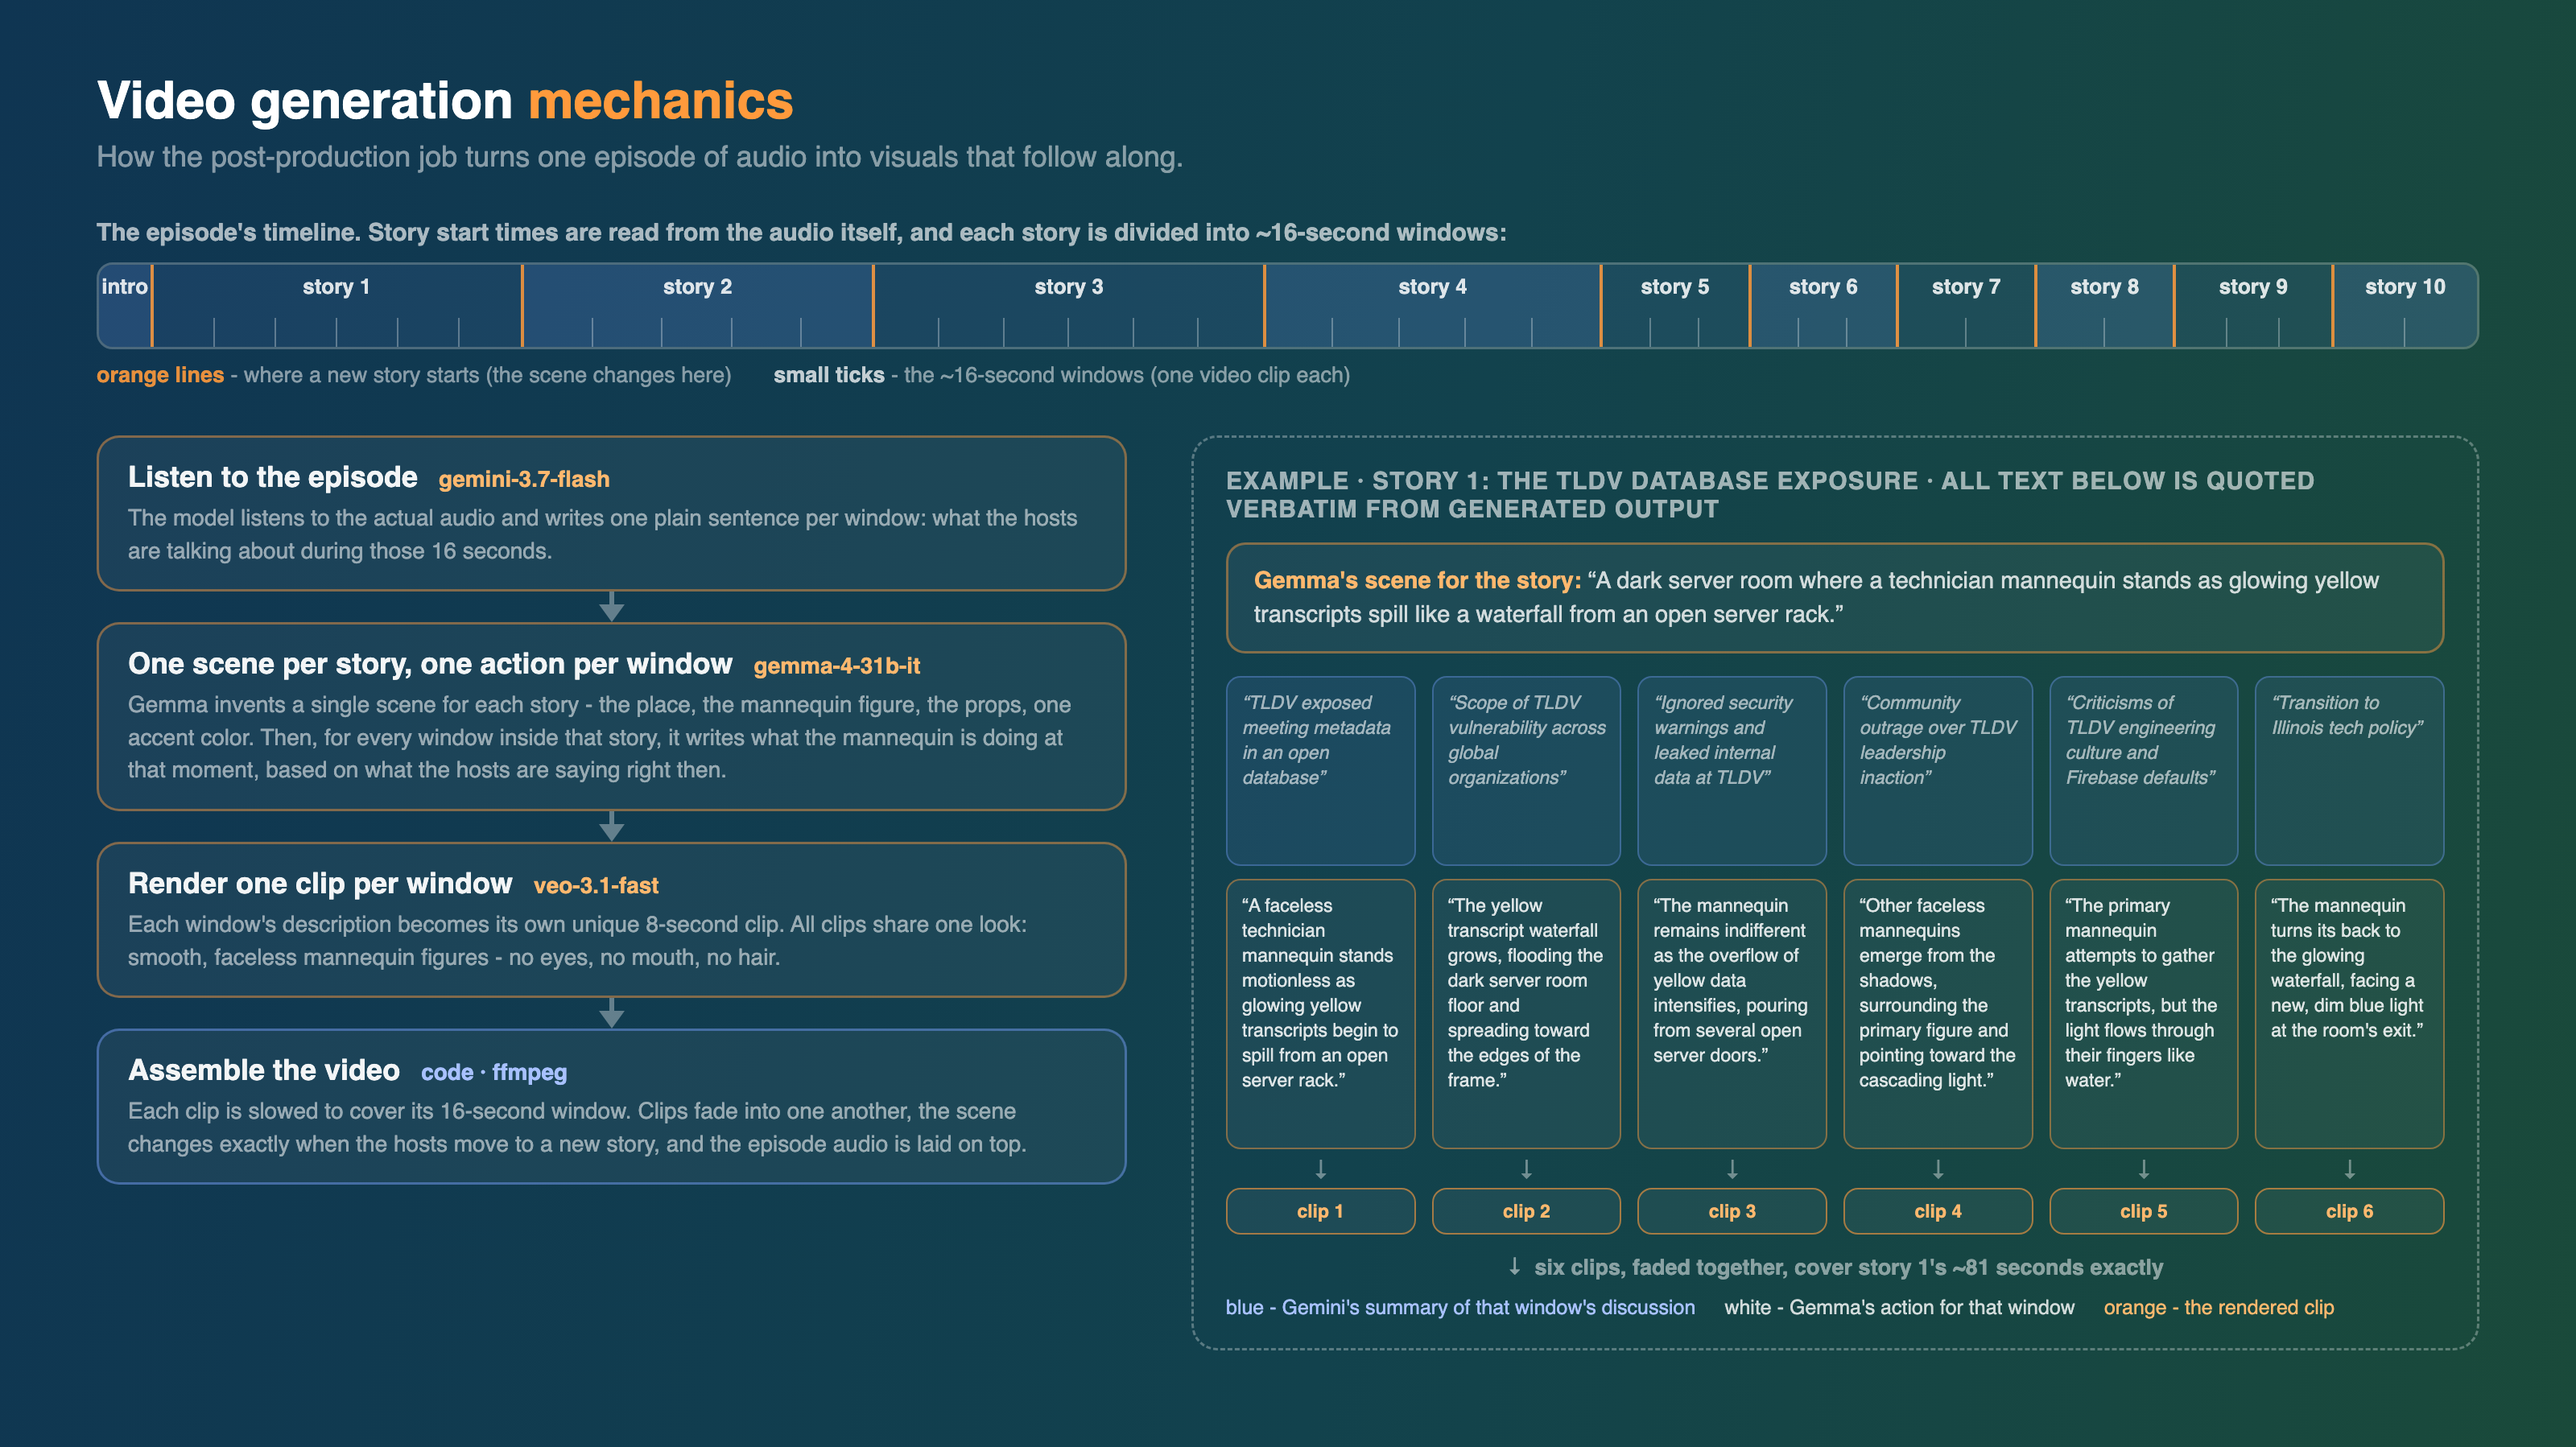
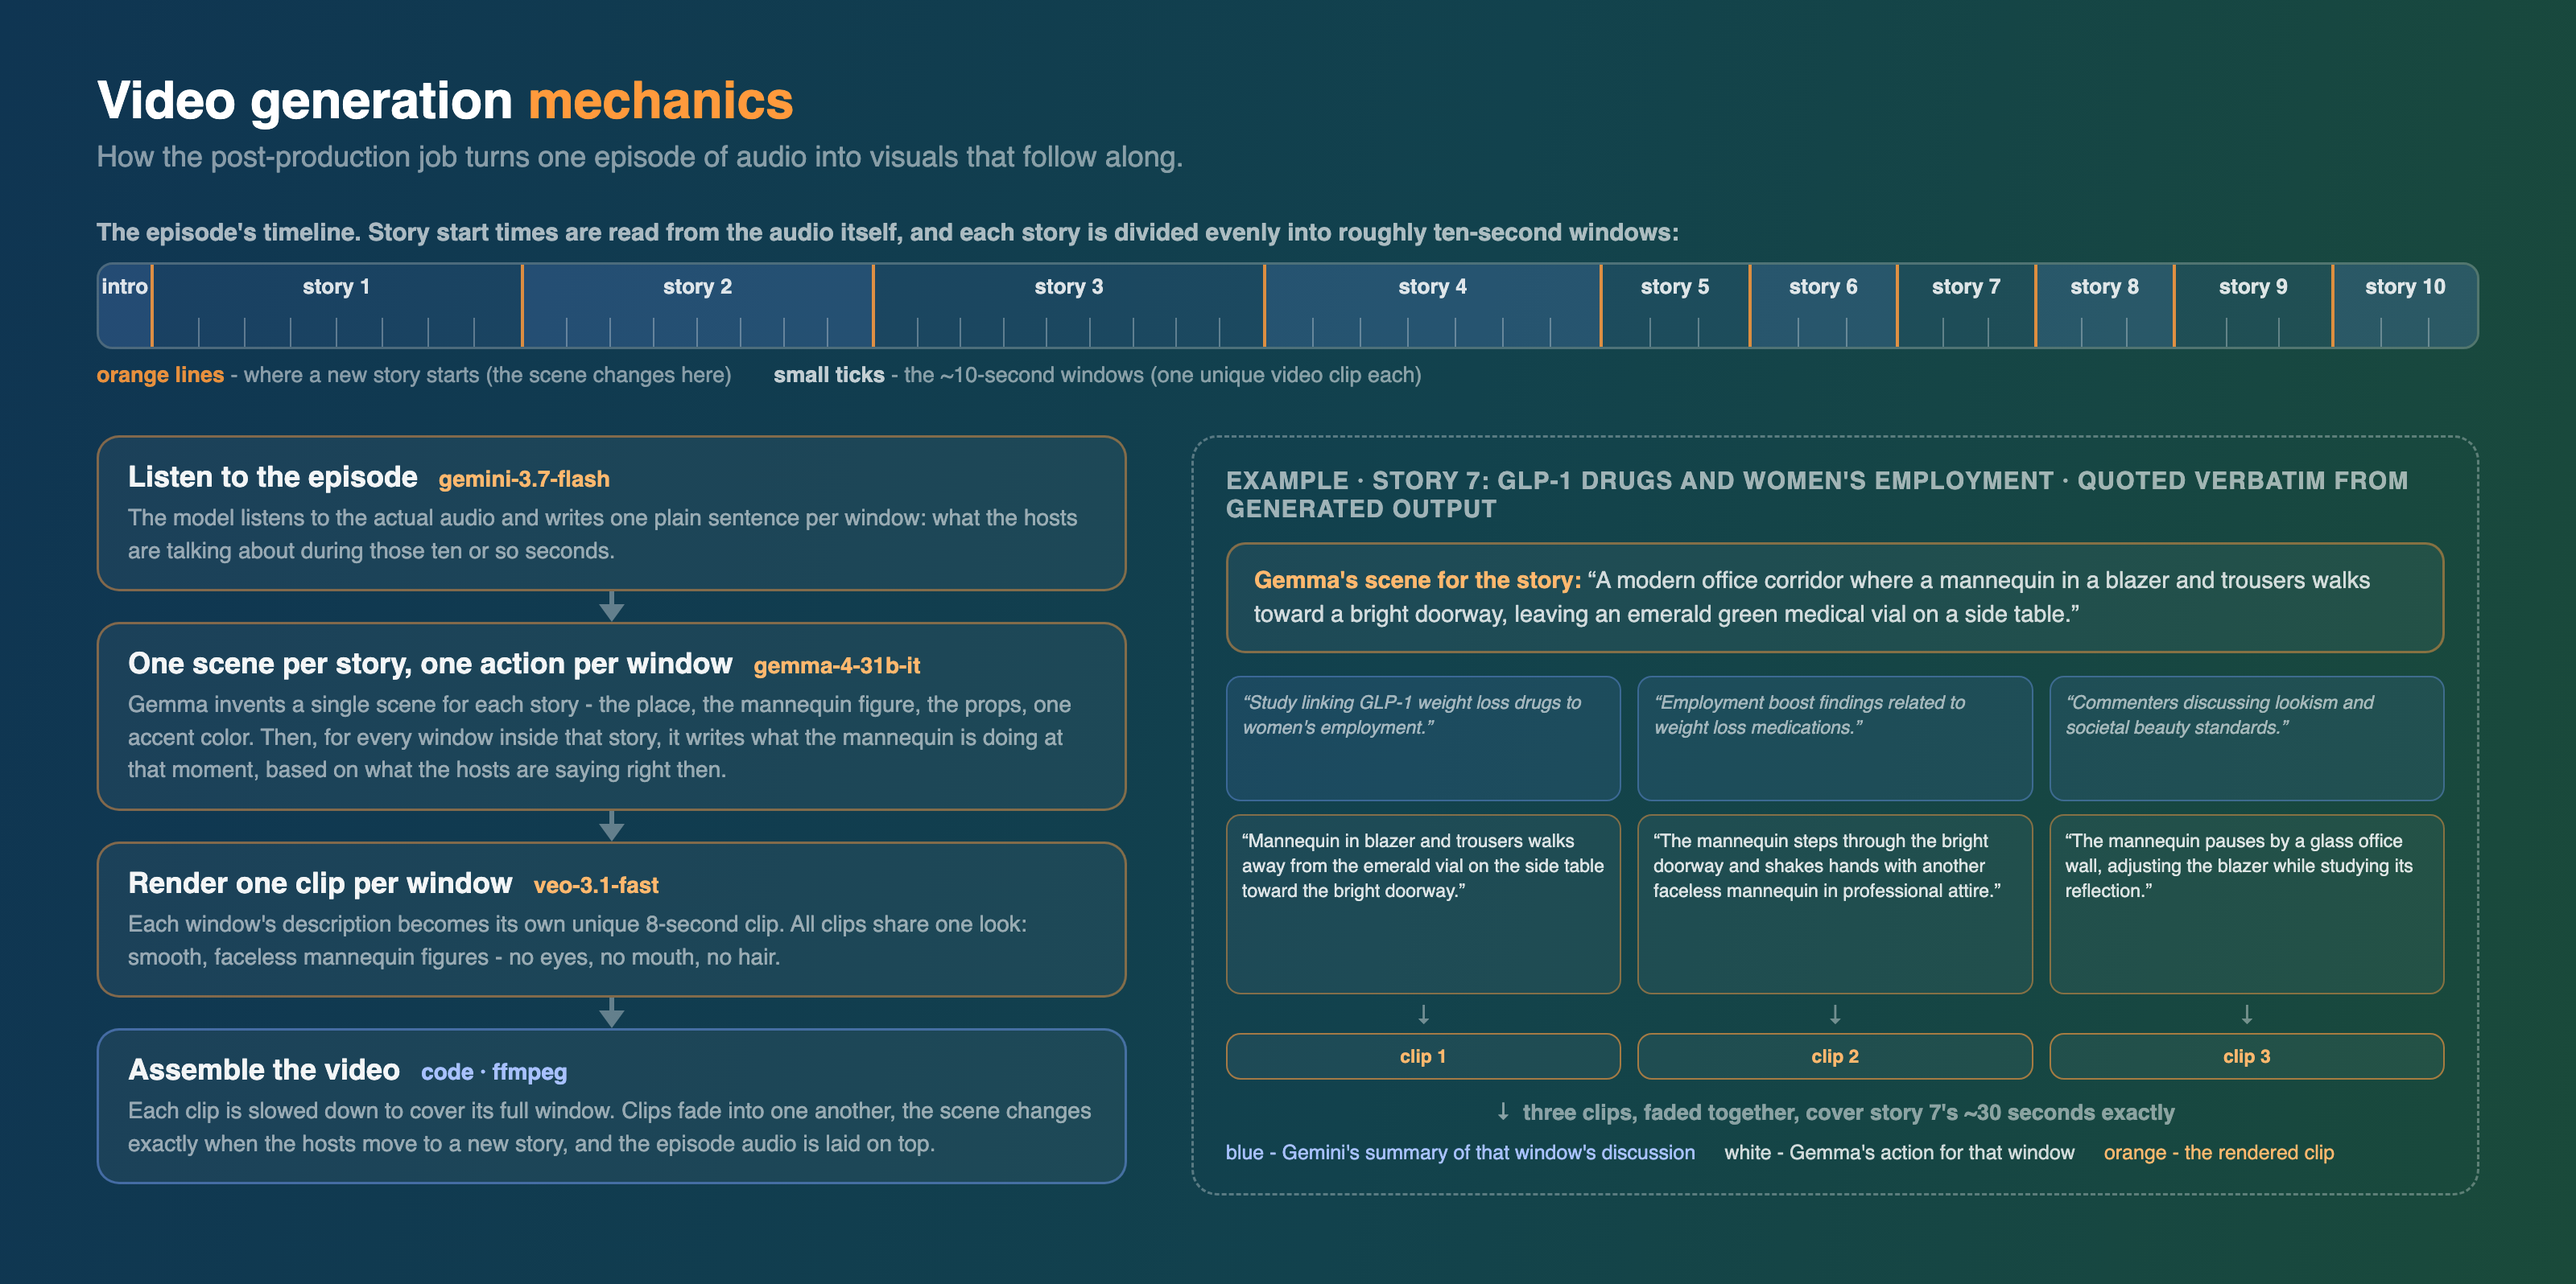
Strip: ten-second windows, story-7 verbatim example

Changed region(s): [[0.0312, 0.0614, 0.9688, 0.9211], [0.4688, 0.5833, 0.9375, 0.9211]]

diff --git a/assets/architecture-video-strip.html b/assets/architecture-video-strip.html
@@ -7,7 +7,7 @@
 <style>
   * { margin: 0; padding: 0; box-sizing: border-box; }
   html, body { font-family: 'Inter', -apple-system, sans-serif; }
-  .cover { position: relative; overflow: hidden; width: 1600px; height: 899px;
+  .cover { position: relative; overflow: hidden; width: 1600px; height: 798px;
     background: linear-gradient(100deg, #0f3552 0%, #12424d 55%, #1a4a3a 100%); padding: 44px 60px; }
   .head h1 { font-size: 32px; font-weight: 700; color: #fff; }
   .head h1 .hl { color: #ff9a3c; }
@@ -42,9 +42,9 @@
   .lanes { display: flex; gap: 10px; margin-top: 14px; }
   .lane { flex: 1; display: flex; flex-direction: column; }
   .said { background: rgba(120,160,255,0.10); border: 1px solid rgba(120,160,255,0.35); border-radius: 9px; padding: 8px 9px;
-    font-size: 11.5px; color: rgba(255,255,255,0.6); font-style: italic; line-height: 1.35; min-height: 118px; }
+    font-size: 11.5px; color: rgba(255,255,255,0.6); font-style: italic; line-height: 1.35; min-height: 78px; }
   .act { margin-top: 8px; background: rgba(255,255,255,0.05); border: 1px solid rgba(255,154,60,0.45); border-radius: 9px; padding: 8px 9px;
-    font-size: 11.5px; color: rgba(255,255,255,0.85); line-height: 1.35; min-height: 168px; }
+    font-size: 11.5px; color: rgba(255,255,255,0.85); line-height: 1.35; min-height: 112px; }
   .dn { text-align: center; color: rgba(255,255,255,0.4); font-size: 15px; margin: 3px 0; }
   .clip { background: rgba(255,255,255,0.05); border: 1px solid rgba(255,154,60,0.6); border-radius: 9px; padding: 7px 6px;
     font-size: 11.5px; font-weight: 700; color: #ffb86e; text-align: center; }
@@ -60,14 +60,14 @@
     <p>How the post-production job turns one episode of audio into visuals that follow along.</p>
   </div>
   <div class="tl">
-    <div class="cap">The episode's timeline. Story start times are read from the audio itself, and each story is divided into ~16-second windows:</div>
-    <div class="bar"><div class="seg" style="width:2.312%"><span>intro</span><div class="ticks"><i style="width:100.000%"></i></div></div><div class="seg" style="width:15.546%"><span>story 1</span><div class="ticks"><i style="width:16.667%"></i><i style="width:16.667%"></i><i style="width:16.667%"></i><i style="width:16.667%"></i><i style="width:16.667%"></i><i style="width:16.667%"></i></div></div><div class="seg" style="width:14.775%"><span>story 2</span><div class="ticks"><i style="width:20.000%"></i><i style="width:20.000%"></i><i style="width:20.000%"></i><i style="width:20.000%"></i><i style="width:20.000%"></i></div></div><div class="seg" style="width:16.470%"><span>story 3</span><div class="ticks"><i style="width:16.667%"></i><i style="width:16.667%"></i><i style="width:16.667%"></i><i style="width:16.667%"></i><i style="width:16.667%"></i><i style="width:16.667%"></i></div></div><div class="seg" style="width:14.120%"><span>story 4</span><div class="ticks"><i style="width:20.000%"></i><i style="width:20.000%"></i><i style="width:20.000%"></i><i style="width:20.000%"></i><i style="width:20.000%"></i></div></div><div class="seg" style="width:6.261%"><span>story 5</span><div class="ticks"><i style="width:33.333%"></i><i style="width:33.333%"></i><i style="width:33.333%"></i></div></div><div class="seg" style="width:6.222%"><span>story 6</span><div class="ticks"><i style="width:33.333%"></i><i style="width:33.333%"></i><i style="width:33.333%"></i></div></div><div class="seg" style="width:5.798%"><span>story 7</span><div class="ticks"><i style="width:50.000%"></i><i style="width:50.000%"></i></div></div><div class="seg" style="width:5.837%"><span>story 8</span><div class="ticks"><i style="width:50.000%"></i><i style="width:50.000%"></i></div></div><div class="seg" style="width:6.665%"><span>story 9</span><div class="ticks"><i style="width:33.333%"></i><i style="width:33.333%"></i><i style="width:33.333%"></i></div></div><div class="seg" style="width:5.995%"><span>story 10</span><div class="ticks"><i style="width:50.000%"></i><i style="width:50.000%"></i></div></div></div>
-    <div class="legend"><span><b>orange lines</b> - where a new story starts (the scene changes here)</span><span><u>small ticks</u> - the ~16-second windows (one video clip each)</span></div>
+    <div class="cap">The episode's timeline. Story start times are read from the audio itself, and each story is divided evenly into roughly ten-second windows:</div>
+    <div class="bar"><div class="seg" style="width:2.312%"><span>intro</span><div class="ticks"><i style="width:100.000%"></i></div></div><div class="seg" style="width:15.546%"><span>story 1</span><div class="ticks"><i style="width:12.500%"></i><i style="width:12.500%"></i><i style="width:12.500%"></i><i style="width:12.500%"></i><i style="width:12.500%"></i><i style="width:12.500%"></i><i style="width:12.500%"></i><i style="width:12.500%"></i></div></div><div class="seg" style="width:14.775%"><span>story 2</span><div class="ticks"><i style="width:12.500%"></i><i style="width:12.500%"></i><i style="width:12.500%"></i><i style="width:12.500%"></i><i style="width:12.500%"></i><i style="width:12.500%"></i><i style="width:12.500%"></i><i style="width:12.500%"></i></div></div><div class="seg" style="width:16.470%"><span>story 3</span><div class="ticks"><i style="width:11.111%"></i><i style="width:11.111%"></i><i style="width:11.111%"></i><i style="width:11.111%"></i><i style="width:11.111%"></i><i style="width:11.111%"></i><i style="width:11.111%"></i><i style="width:11.111%"></i><i style="width:11.111%"></i></div></div><div class="seg" style="width:14.120%"><span>story 4</span><div class="ticks"><i style="width:14.286%"></i><i style="width:14.286%"></i><i style="width:14.286%"></i><i style="width:14.286%"></i><i style="width:14.286%"></i><i style="width:14.286%"></i><i style="width:14.286%"></i></div></div><div class="seg" style="width:6.261%"><span>story 5</span><div class="ticks"><i style="width:33.333%"></i><i style="width:33.333%"></i><i style="width:33.333%"></i></div></div><div class="seg" style="width:6.222%"><span>story 6</span><div class="ticks"><i style="width:33.333%"></i><i style="width:33.333%"></i><i style="width:33.333%"></i></div></div><div class="seg" style="width:5.798%"><span>story 7</span><div class="ticks"><i style="width:33.333%"></i><i style="width:33.333%"></i><i style="width:33.333%"></i></div></div><div class="seg" style="width:5.837%"><span>story 8</span><div class="ticks"><i style="width:33.333%"></i><i style="width:33.333%"></i><i style="width:33.333%"></i></div></div><div class="seg" style="width:6.665%"><span>story 9</span><div class="ticks"><i style="width:33.333%"></i><i style="width:33.333%"></i><i style="width:33.333%"></i></div></div><div class="seg" style="width:5.995%"><span>story 10</span><div class="ticks"><i style="width:33.333%"></i><i style="width:33.333%"></i><i style="width:33.333%"></i></div></div></div>
+    <div class="legend"><span><b>orange lines</b> - where a new story starts (the scene changes here)</span><span><u>small ticks</u> - the ~10-second windows (one unique video clip each)</span></div>
   </div>
   <div class="cols">
     <div class="flow">
       <div class="node"><div class="t">Listen to the episode <em>gemini-3.7-flash</em></div>
-        <div class="s">The model listens to the actual audio and writes one plain sentence per window: what the hosts are talking about during those 16 seconds.</div></div>
+        <div class="s">The model listens to the actual audio and writes one plain sentence per window: what the hosts are talking about during those ten or so seconds.</div></div>
       <div class="stem"></div><div class="arrow"></div>
       <div class="node"><div class="t">One scene per story, one action per window <em>gemma-4-31b-it</em></div>
         <div class="s">Gemma invents a single scene for each story - the place, the mannequin figure, the props, one accent color. Then, for every window inside that story, it writes what the mannequin is doing at that moment, based on what the hosts are saying right then.</div></div>
@@ -76,13 +76,13 @@
         <div class="s">Each window's description becomes its own unique 8-second clip. All clips share one look: smooth, faceless mannequin figures - no eyes, no mouth, no hair.</div></div>
       <div class="stem"></div><div class="arrow"></div>
       <div class="node code"><div class="t">Assemble the video <em>code &middot; ffmpeg</em></div>
-        <div class="s">Each clip is slowed to cover its 16-second window. Clips fade into one another, the scene changes exactly when the hosts move to a new story, and the episode audio is laid on top.</div></div>
+        <div class="s">Each clip is slowed down to cover its full window. Clips fade into one another, the scene changes exactly when the hosts move to a new story, and the episode audio is laid on top.</div></div>
     </div>
     <div class="ex">
-      <div class="xt">Example &middot; story 1: the TLDV database exposure &middot; all text below is quoted verbatim from generated output</div>
-      <div class="scene"><b>Gemma's scene for the story:</b> &ldquo;A dark server room where a technician mannequin stands as glowing yellow transcripts spill like a waterfall from an open server rack.&rdquo;</div>
-      <div class="lanes"><div class="lane"><div class="said">&ldquo;TLDV exposed meeting metadata in an open database&rdquo;</div><div class="act">&ldquo;A faceless technician mannequin stands motionless as glowing yellow transcripts begin to spill from an open server rack.&rdquo;</div><div class="dn">&#8595;</div><div class="clip">clip 1</div></div><div class="lane"><div class="said">&ldquo;Scope of TLDV vulnerability across global organizations&rdquo;</div><div class="act">&ldquo;The yellow transcript waterfall grows, flooding the dark server room floor and spreading toward the edges of the frame.&rdquo;</div><div class="dn">&#8595;</div><div class="clip">clip 2</div></div><div class="lane"><div class="said">&ldquo;Ignored security warnings and leaked internal data at TLDV&rdquo;</div><div class="act">&ldquo;The mannequin remains indifferent as the overflow of yellow data intensifies, pouring from several open server doors.&rdquo;</div><div class="dn">&#8595;</div><div class="clip">clip 3</div></div><div class="lane"><div class="said">&ldquo;Community outrage over TLDV leadership inaction&rdquo;</div><div class="act">&ldquo;Other faceless mannequins emerge from the shadows, surrounding the primary figure and pointing toward the cascading light.&rdquo;</div><div class="dn">&#8595;</div><div class="clip">clip 4</div></div><div class="lane"><div class="said">&ldquo;Criticisms of TLDV engineering culture and Firebase defaults&rdquo;</div><div class="act">&ldquo;The primary mannequin attempts to gather the yellow transcripts, but the light flows through their fingers like water.&rdquo;</div><div class="dn">&#8595;</div><div class="clip">clip 5</div></div><div class="lane"><div class="said">&ldquo;Transition to Illinois tech policy&rdquo;</div><div class="act">&ldquo;The mannequin turns its back to the glowing waterfall, facing a new, dim blue light at the room's exit.&rdquo;</div><div class="dn">&#8595;</div><div class="clip">clip 6</div></div></div>
-      <div class="merge">&#8595;&nbsp;&nbsp;six clips, faded together, cover story 1's ~81 seconds exactly</div>
+      <div class="xt">Example &middot; story 7: GLP-1 drugs and women's employment &middot; quoted verbatim from generated output</div>
+      <div class="scene"><b>Gemma's scene for the story:</b> &ldquo;A modern office corridor where a mannequin in a blazer and trousers walks toward a bright doorway, leaving an emerald green medical vial on a side table.&rdquo;</div>
+      <div class="lanes"><div class="lane"><div class="said">&ldquo;Study linking GLP-1 weight loss drugs to women's employment.&rdquo;</div><div class="act">&ldquo;Mannequin in blazer and trousers walks away from the emerald vial on the side table toward the bright doorway.&rdquo;</div><div class="dn">&#8595;</div><div class="clip">clip 1</div></div><div class="lane"><div class="said">&ldquo;Employment boost findings related to weight loss medications.&rdquo;</div><div class="act">&ldquo;The mannequin steps through the bright doorway and shakes hands with another faceless mannequin in professional attire.&rdquo;</div><div class="dn">&#8595;</div><div class="clip">clip 2</div></div><div class="lane"><div class="said">&ldquo;Commenters discussing lookism and societal beauty standards.&rdquo;</div><div class="act">&ldquo;The mannequin pauses by a glass office wall, adjusting the blazer while studying its reflection.&rdquo;</div><div class="dn">&#8595;</div><div class="clip">clip 3</div></div></div>
+      <div class="merge">&#8595;&nbsp;&nbsp;three clips, faded together, cover story 7's ~30 seconds exactly</div>
       <div class="keys"><span class="k1">blue - Gemini's summary of that window's discussion</span><span class="k2">white - Gemma's action for that window</span><span class="k3">orange - the rendered clip</span></div>
     </div>
   </div>
